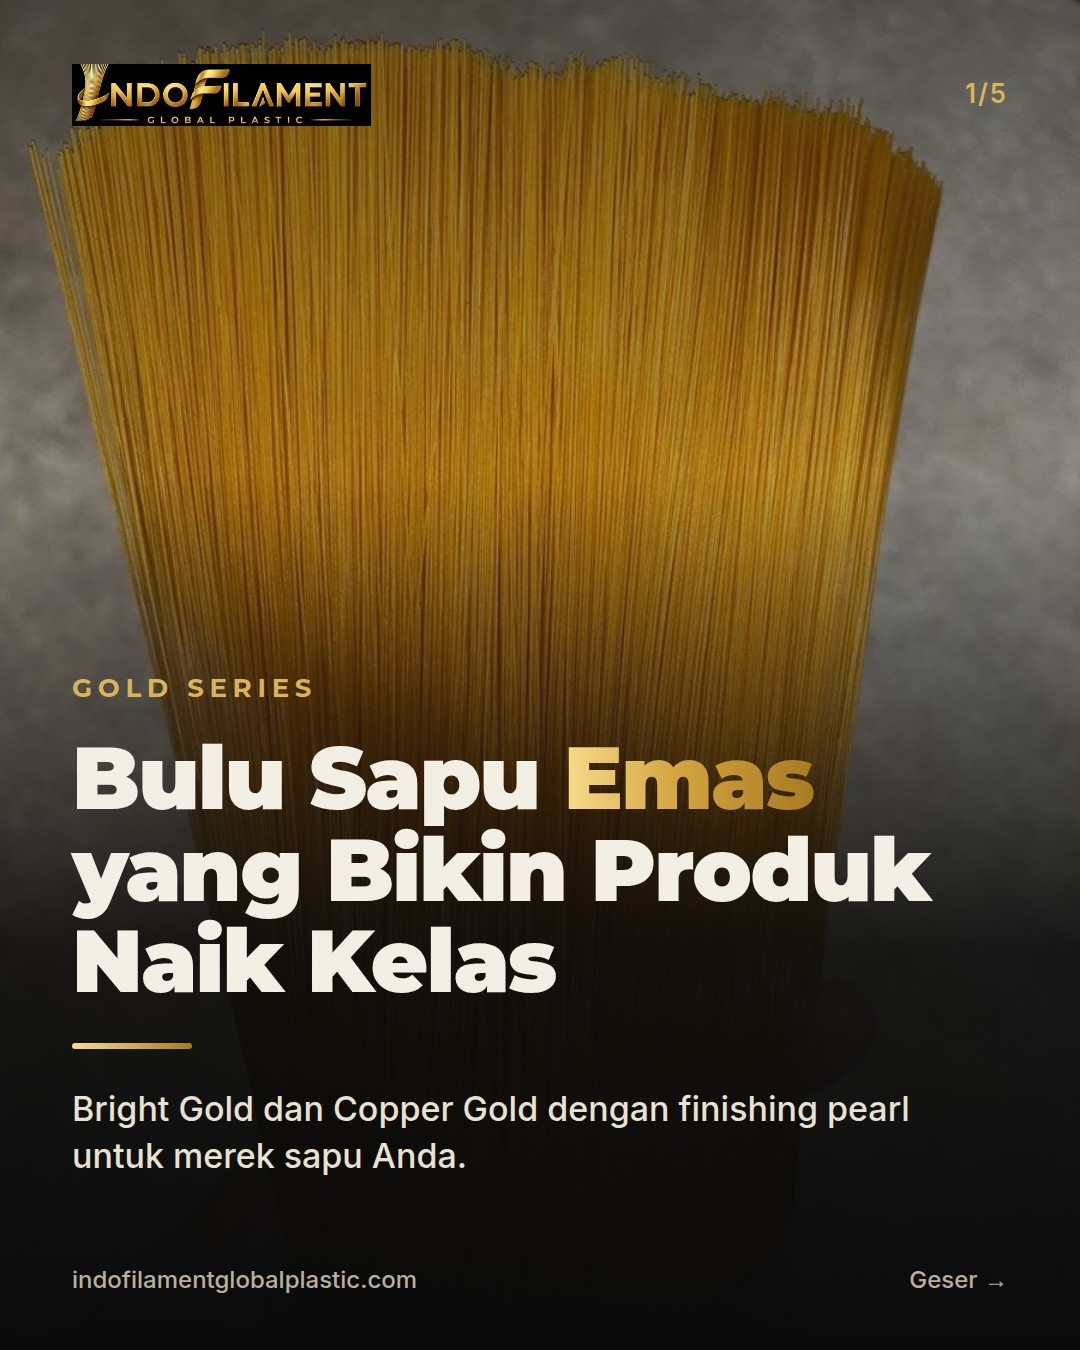
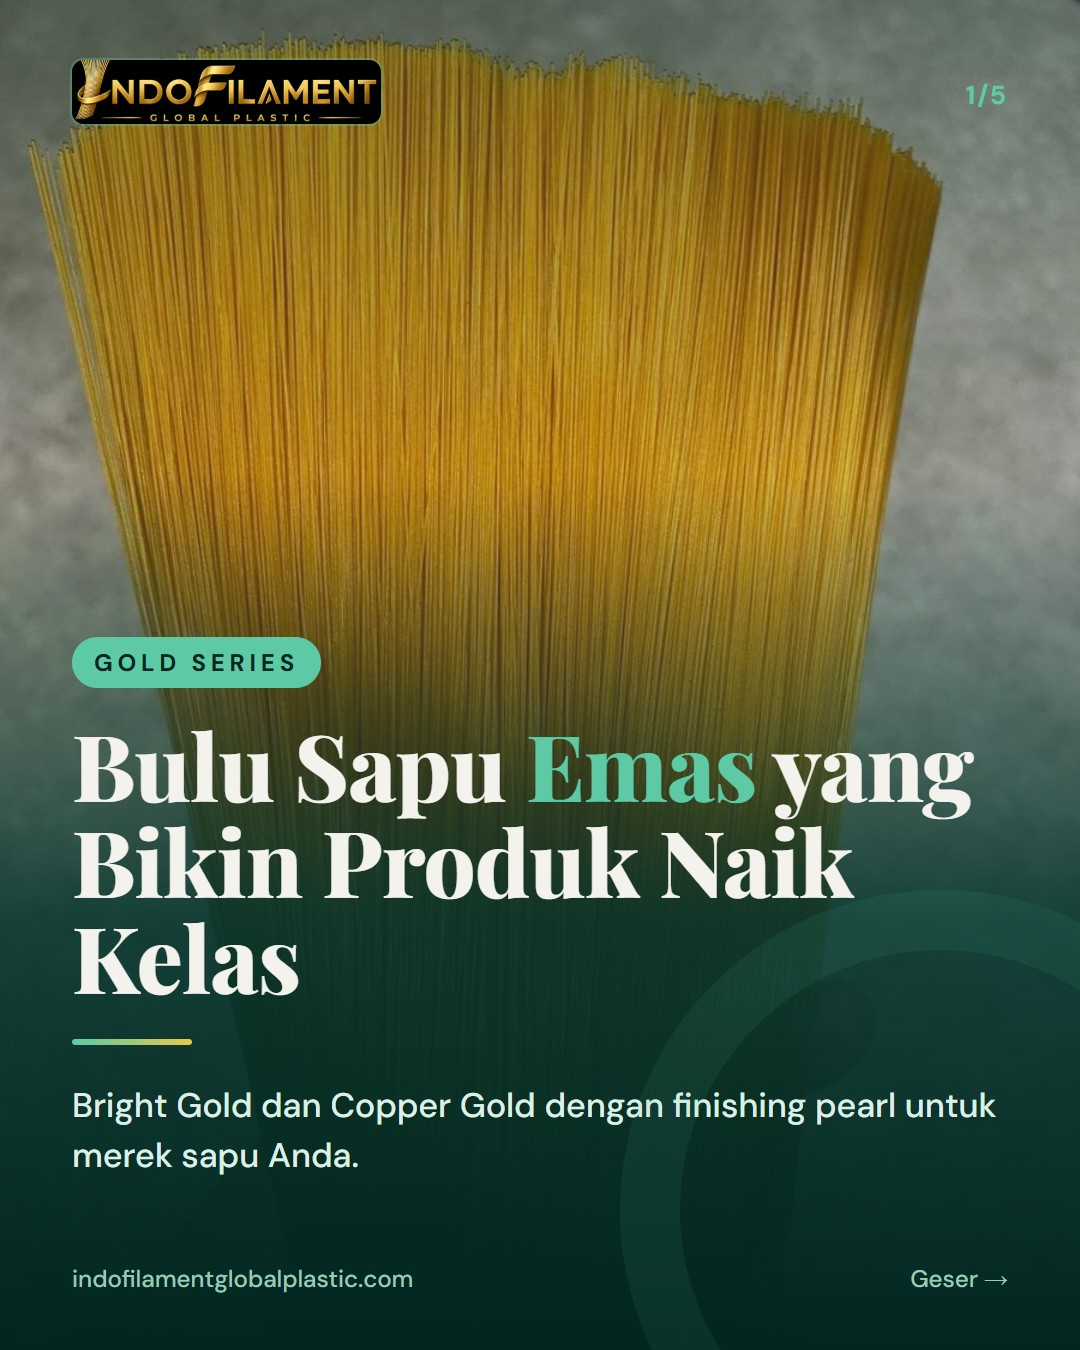
IG: tema carousel hijau seperti website (Playfair + DM Sans, hijau tua, mint, krem); render ulang draft 20261026-1815

diff --git a/.github/ig/render.js b/.github/ig/render.js
@@ -12,26 +12,33 @@ const esc = s => String(s == null ? '' : s).replace(/&/g, '&amp;').replace(/</g,
 const gold = s => esc(s).replace(/\*([^*]+)\*/g, '<span class="gold">$1</span>').replace(/\*/g, '');
 const foto = f => IMG + (FOTO.includes(f) ? f : 'factory-hall') + '.jpg';
 
+// Tema mengikuti website: hijau tua + mint + krem, judul Playfair Display, isi DM Sans. Slide "points" berlatar krem.
 const css = `
-@import url('https://fonts.googleapis.com/css2?family=Montserrat:wght@500;700;800;900&family=Inter:wght@400;500;600&display=swap');
+@import url('https://fonts.googleapis.com/css2?family=Playfair+Display:wght@700;800&family=DM+Sans:wght@400;500;700&display=swap');
 *{box-sizing:border-box;margin:0;padding:0}
-html,body{width:1080px;height:1350px;overflow:hidden;background:#0a0a0a}
-body{font-family:Inter,sans-serif;color:#f4efe4}
-.s{position:relative;width:1080px;height:1350px;overflow:hidden;background:#0a0a0a}
+html,body{width:1080px;height:1350px;overflow:hidden;background:#022620}
+body{font-family:'DM Sans',sans-serif;color:#F4F2EC}
+.s{position:relative;width:1080px;height:1350px;overflow:hidden;background:radial-gradient(120% 80% at 85% 0%,#0F6E56 0%,#04342C 45%,#022620 100%)}
+.s::after{content:'';position:absolute;right:-180px;bottom:-180px;width:520px;height:520px;border-radius:50%;border:60px solid rgba(93,202,165,.08)}
 .bg{position:absolute;inset:0;background-size:cover;background-position:center}
-.shade{position:absolute;inset:0;background:linear-gradient(180deg,rgba(10,10,10,.55) 0%,rgba(10,10,10,.25) 35%,rgba(10,10,10,.92) 70%,#0a0a0a 100%)}
-.dim{position:absolute;inset:0;background:linear-gradient(180deg,rgba(10,10,10,.6),rgba(10,10,10,.88) 45%,#0a0a0a)}
-.logo{position:absolute;top:64px;left:72px;height:62px}
-.page{position:absolute;top:78px;right:72px;font:600 26px Inter;color:#d9b45a;letter-spacing:.08em}
-.gold{background:linear-gradient(90deg,#f7dc8b,#d4a542 45%,#a87a22);-webkit-background-clip:text;background-clip:text;color:transparent}
-h1{font:900 88px/1.04 Montserrat;letter-spacing:-.02em}
-h2{font:800 64px/1.08 Montserrat;letter-spacing:-.01em}
-.lead{font:500 34px/1.4 Inter;color:#e9e2d2}
-.kicker{font:700 26px Montserrat;letter-spacing:.22em;text-transform:uppercase;color:#d9b45a}
-.line{width:120px;height:6px;border-radius:3px;background:linear-gradient(90deg,#f7dc8b,#a87a22)}
-.foot{position:absolute;left:72px;right:72px;bottom:56px;display:flex;justify-content:space-between;font:500 24px Inter;color:#b9b0a0}
-.card{background:rgba(255,255,255,.06);border:1.5px solid rgba(217,180,90,.35);border-radius:28px;padding:40px}
-.top{position:absolute;left:72px;right:72px;top:210px}
+.shade{position:absolute;inset:0;background:linear-gradient(180deg,rgba(2,38,32,.45) 0%,rgba(2,38,32,.15) 35%,rgba(4,52,44,.9) 68%,#022620 100%)}
+.dim{position:absolute;inset:0;background:linear-gradient(180deg,rgba(4,52,44,.72),rgba(2,38,32,.9) 45%,#022620)}
+.logo{position:absolute;top:60px;left:72px;height:64px;border-radius:12px;box-shadow:0 0 0 2px rgba(93,202,165,.35)}
+.page{position:absolute;top:78px;right:72px;font:700 26px 'DM Sans';color:#5DCAA5;letter-spacing:.08em}
+.gold{color:#5DCAA5}
+h1{font:800 92px/1.04 'Playfair Display',serif;letter-spacing:-.01em}
+h2{font:800 66px/1.1 'Playfair Display',serif}
+.lead{font:500 34px/1.45 'DM Sans';color:#DDEFE7}
+.kicker{display:inline-block;font:700 24px 'DM Sans';letter-spacing:.2em;text-transform:uppercase;color:#022620;background:#5DCAA5;padding:10px 22px;border-radius:999px}
+.line{width:120px;height:6px;border-radius:3px;background:linear-gradient(90deg,#5DCAA5,#E8C84A)}
+.foot{position:absolute;left:72px;right:72px;bottom:56px;display:flex;justify-content:space-between;font:500 24px 'DM Sans';color:#9CC9B8;z-index:2}
+.card{background:rgba(255,255,255,.07);border:1.5px solid rgba(93,202,165,.4);border-radius:28px;padding:40px}
+.top{position:absolute;left:72px;right:72px;top:210px;z-index:1}
+.num{flex:0 0 72px;height:72px;border-radius:50%;background:#0F6E56;color:#F4F2EC;font:700 34px/72px 'DM Sans';text-align:center}
+.light{background:#F4F2EC;color:#2C2C2A}
+.light::after{border-color:rgba(15,110,86,.08)}
+.light .lead{color:#5F5E5A}.light .gold{color:#0F6E56}.light .kicker{background:#0F6E56;color:#F4F2EC}.light .page{color:#0F6E56}.light .foot{color:#5F5E5A}
+.wa{display:inline-flex;align-items:center;background:#25D366;color:#fff;border-radius:999px;padding:28px 48px;font:700 38px 'DM Sans';box-shadow:0 10px 30px rgba(37,211,102,.25)}
 `;
 
 const tpl = {
@@ -41,18 +48,18 @@ const tpl = {
       <h1>${gold(s.title)}</h1>
       <div style="height:36px"></div><div class="line"></div><div style="height:36px"></div>
       <p class="lead">${esc(s.lead)}</p></div>`,
-  points: s => `${s.bg ? `<div class="bg" style="background-image:url('${foto(s.bg)}');opacity:.2"></div>` : ''}
+  points: s => `
     <div class="top"><div class="kicker">${esc(s.kicker)}</div><div style="height:24px"></div>
       <h2>${gold(s.title)}</h2><div style="height:48px"></div>
       ${(s.items || []).slice(0, 5).map((it, i) => `<div style="display:flex;gap:28px;align-items:flex-start;margin-bottom:30px">
-        <div style="flex:0 0 72px;height:72px;border-radius:50%;background:linear-gradient(135deg,#f7dc8b,#a87a22);color:#0a0a0a;font:900 34px/72px Montserrat;text-align:center">${i + 1}</div>
-        <div><div style="font:800 36px/1.2 Montserrat">${esc(it.t)}</div><div style="height:6px"></div><p class="lead" style="font-size:28px;color:#cfc6b4">${esc(it.d)}</p></div></div>`).join('')}
+        <div class="num">${i + 1}</div>
+        <div><div style="font:700 36px/1.2 'DM Sans'">${esc(it.t)}</div><div style="height:6px"></div><p class="lead" style="font-size:28px">${esc(it.d)}</p></div></div>`).join('')}
     </div>`,
   stats: s => `<div class="bg" style="background-image:url('${foto(s.bg || 'factory-hall')}')"></div><div class="dim"></div>
     <div class="top" style="top:250px"><div class="kicker">${esc(s.kicker)}</div><div style="height:24px"></div>
       <h2>${gold(s.title)}</h2><div style="height:52px"></div>
       <div style="display:grid;grid-template-columns:1fr 1fr;gap:28px">
-        ${(s.stats || []).slice(0, 4).map(x => `<div class="card" style="padding:36px"><div class="gold" style="font:900 56px/1.05 Montserrat">${esc(x.big)}</div><div style="height:14px"></div><p class="lead" style="font-size:27px">${esc(x.small)}</p></div>`).join('')}
+        ${(s.stats || []).slice(0, 4).map(x => `<div class="card" style="padding:36px"><div class="gold" style="font:800 56px/1.05 'Playfair Display',serif">${esc(x.big)}</div><div style="height:14px"></div><p class="lead" style="font-size:27px">${esc(x.small)}</p></div>`).join('')}
       </div>
       ${s.note ? `<div style="height:36px"></div><div class="card" style="padding:30px 36px"><p class="lead" style="font-size:28px">${esc(s.note)}</p></div>` : ''}
     </div>`,
@@ -65,10 +72,10 @@ const tpl = {
       </div><div style="height:56px"></div>
       <h2>${gold(s.title)}</h2><div style="height:24px"></div>
       <p class="lead">${esc(s.lead)}</p><div style="height:48px"></div>
-      <div style="display:inline-flex;align-items:center;background:linear-gradient(90deg,#f7dc8b,#c9963a);color:#0a0a0a;border-radius:999px;padding:28px 48px;font:800 38px Montserrat">${WA}</div></div>`
+      <div class="wa">${WA}</div></div>`
 };
 
-const page = (s, n, total) => `<!doctype html><html><head><meta charset="utf-8"><style>${css}</style></head><body><div class="s">
+const page = (s, n, total) => `<!doctype html><html><head><meta charset="utf-8"><style>${css}</style></head><body><div class="s${s.type === 'points' ? ' light' : ''}">
 ${(tpl[s.type] || tpl.points)(s)}
 <img class="logo" src="${IMG}logo-gold.jpg"><div class="page">${n}/${total}</div>
 <div class="foot"><span>indofilamentglobalplastic.com</span><span>${n < total ? 'Geser &rarr;' : 'Sampel tersedia'}</span></div></div></body></html>`;
